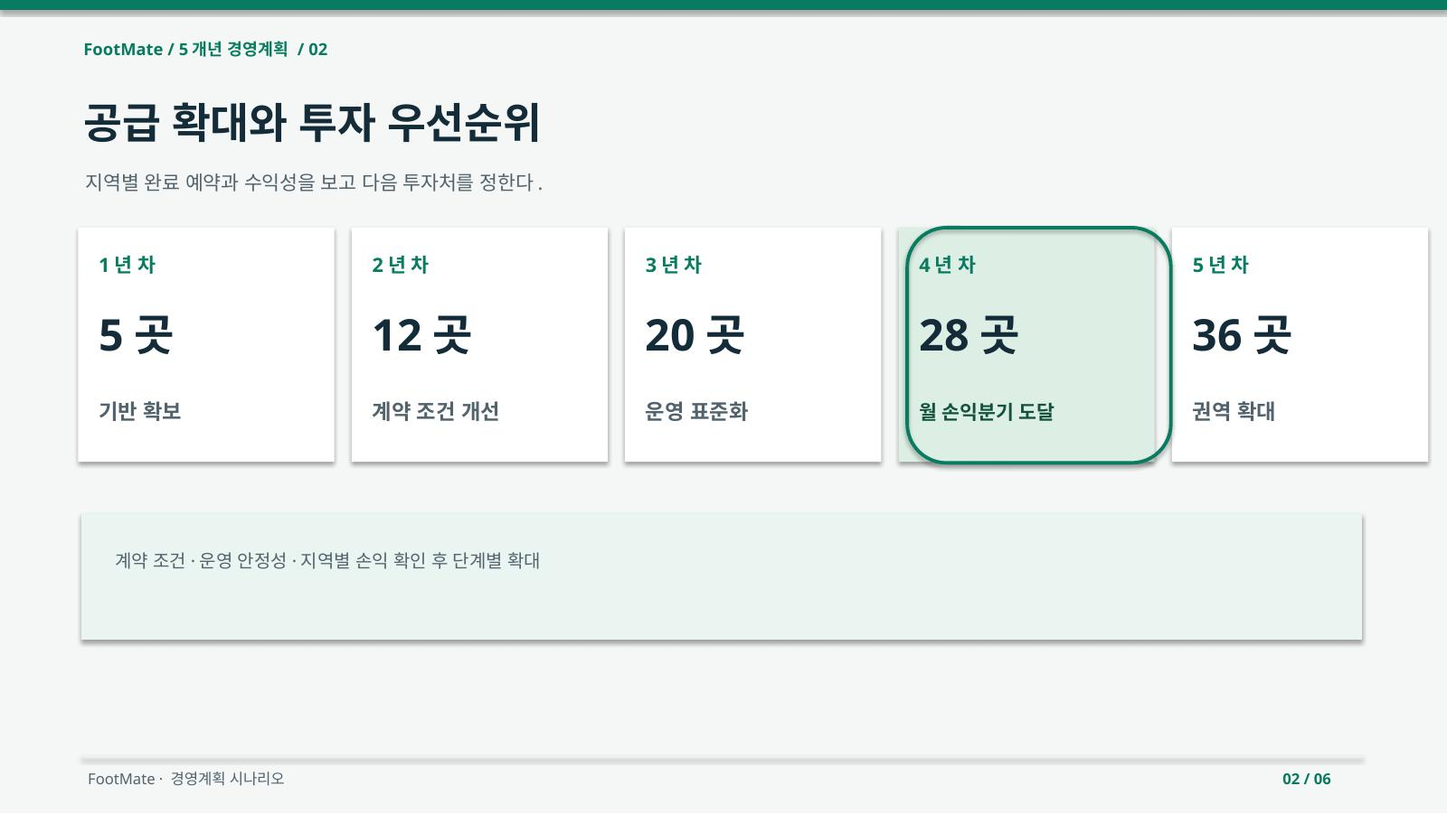
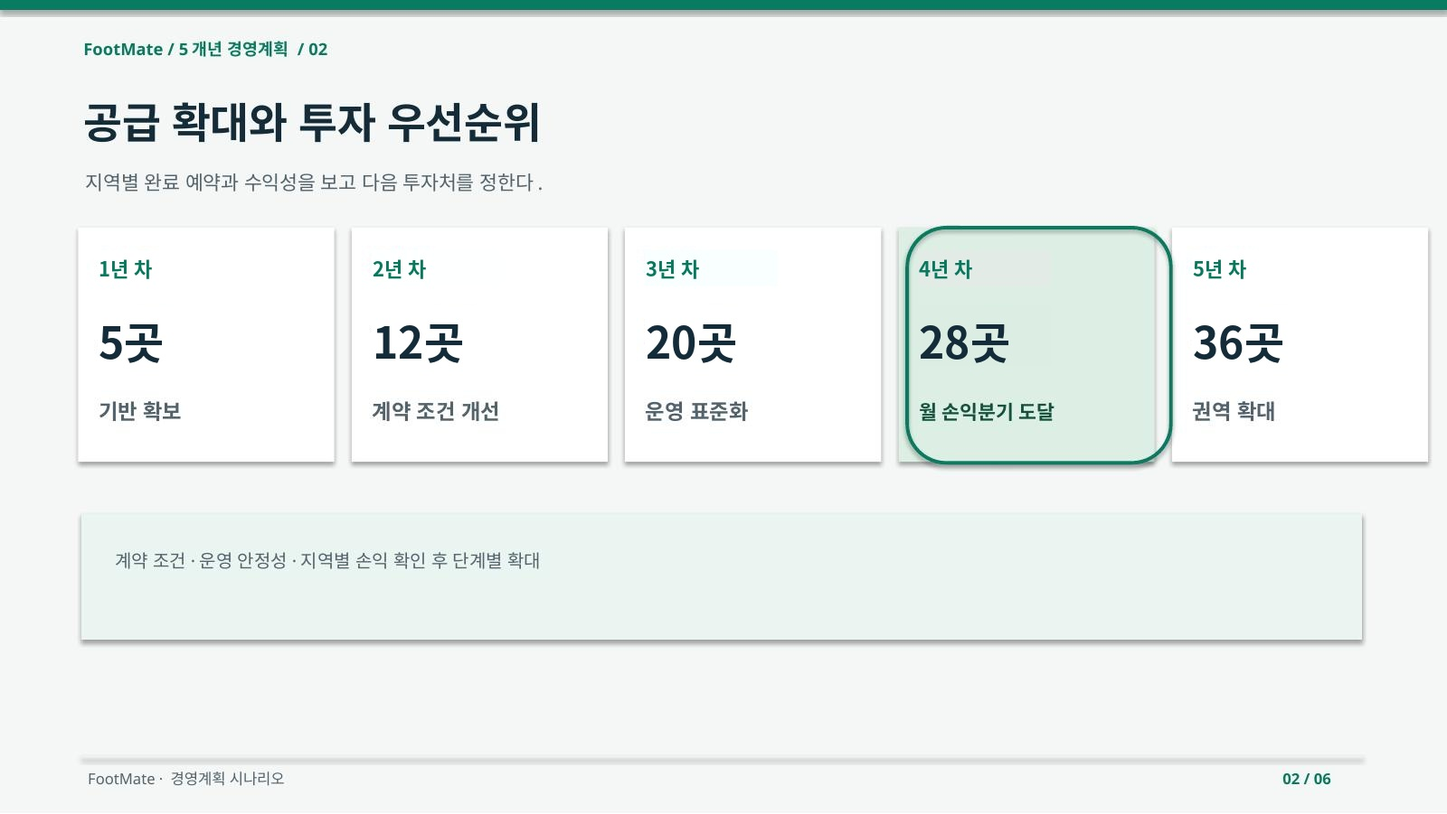
Tighten year and supplier units on the growth strategy slide

diff --git a/src/case-study/materials.html b/src/case-study/materials.html
@@ -263,7 +263,7 @@ html.standalone-slides .viewer:not(:fullscreen):not(.inline-zoom)>.toolbar,
 html.standalone-slides .viewer:not(:fullscreen):not(.inline-zoom)>.slide-tools,
 html
 html.standalone-slides .viewer:not(:fullscreen):not(.inline-zoom)>.slide-progress{flex:none}
-</style><style>.viewer .slide-keypoint{font-size:clamp(.82rem,1.3vw,.95rem);line-height:1.45;word-break:keep-all;overflow-wrap:anywhere}.viewer:fullscreen .slide-keypoint{flex:none}</style></head><body><main><a class="back" href="/" target="_top">본문으로</a><h1>FootMate 사업성 검토</h1><h2>분석 보고서</h2><p class="caption"><a href="/src/case-study/downloads/footmate_5year_strategy.pptx?v=20261113-polish" download="footmate_5year_strategy.pptx">5개년 성장 전략 PPTX 다운로드</a></p><div class="viewer"><div class="toolbar" role="group" aria-label="슬라이드 조작"><div class="slide-nav-controls"><button id="prev" type="button" aria-label="이전 슬라이드"><span class="fm-icon" aria-hidden="true">⬅</span><span>이전</span></button><span id="page" aria-live="polite" aria-atomic="true">01 / 09</span><button id="next" type="button" aria-label="다음 슬라이드"><span>다음</span><span class="fm-icon" aria-hidden="true">➡</span></button></div><div class="slide-current-info"><strong id="slideTitle">FootMate 사업성 검토</strong></div><div class="slide-tools"><button id="expand" type="button" aria-label="슬라이드 크게 보기"><span id="expandIcon" class="fm-icon" aria-hidden="true">🖥</span><span id="expandLabel">전체 화면</span></button></div></div><div class="slide-progress" id="slideProgressTrack" role="progressbar" aria-label="슬라이드 진행" aria-valuemin="1" aria-valuemax="10" aria-valuenow="1"><span id="slideProgress"></span></div><div class="slide-tools"><label for="slide-picker">슬라이드 목록 <select id="slide-picker"></select></label></div><div class="viewer-stage"><button type="button" id="slide-enlarge" aria-label="슬라이드 이미지 확대"><img id="slide" alt="" aria-describedby="slide-keypoint"></button></div><div class="slide-gallery" id="slideGallery" aria-label="발표자료 슬라이드 썸네일 미리보기"></div></div><h2>손익·사업성 분석</h2><section class="analysis" aria-label="손익과 사업성 분석"><h3>운영 손익과 성과관리</h3><p class="caption">2027년 손익 시나리오(산정 기준)</p><div class="controls"><label>수수료율 %<input id="rate" type="number" min="0" max="100" step="1"></label><label>플랫폼 예약 비중 %<input id="share" type="number" min="0" max="100"></label><label>취소율 %<input id="cancel" type="number" min="0" max="100"></label><label>신규 고객 1인당 확보비(CAC) 원<input id="cac" type="number" min="0" step="100"></label><label>플랫폼 결제비 %<input id="pg" type="number" min="0" max="100"></label><button id="reset">기준 시나리오 복원</button></div><div id="kpis" class="kpis" aria-live="polite"></div><p id="formula"></p><h2>월별 계획과 가상 실적 · 예약 증가 시나리오</h2><p class="muted">월별 표는 고정 계획과 가상 거래를 비교합니다. 계산기 입력값과는 연동되지 않습니다.</p><svg id="chart" viewBox="0 0 1000 220" role="img" aria-label="월별 수수료 매출, 계획과 가상 실적 비교"></svg><div id="monthly"></div><h2>차이 원인과 대응</h2><div id="variance"></div><h2>데이터·계산 검증</h2><p>2027년 가상 예약의 월별 집계다. 환불을 반영해 수수료 매출을 산정하고, 취소·노쇼의 지원·확보·IT 비용을 고려합니다. 거래 원장은 실제 자료 확보 후 대조합니다.</p><h3>스트레스 시나리오 계산 결과</h3><p>완료 예약 기준 손익입니다. 취소·노쇼의 추가 비용은 월별 원장 대조로 확인합니다.</p><div class="table-wrap" tabindex="0" role="region" aria-label="분석 표 가로 스크롤"><table><thead><tr><th>사례</th><th>조건</th><th>완료/월</th><th>공헌이익/건</th><th>기회비용 포함 손익/월</th><th>손익분기 건수</th></tr></thead><tbody><tr><td>FootMate</td><td>기준</td><td>626</td><td>340</td><td>-2,387,160</td><td>7,648</td></tr><tr><td>FootMate</td><td>플랫폼 예약 비중 20% 감소</td><td>501</td><td>340</td><td>-2,429,660</td><td>7,648</td></tr><tr><td>FootMate</td><td>고객 확보비 2배</td><td>626</td><td>40</td><td>-2,574,960</td><td>65,000</td></tr><tr><td>FootMate</td><td>취소율 20%</td><td>544</td><td>340</td><td>-2,415,040</td><td>7,648</td></tr><tr><td>FootMate</td><td>수수료 0%</td><td>626</td><td>-860</td><td>-3,138,360</td><td>손익분기 미성립</td></tr></tbody></table></div><p>수수료 0%는 건당 공헌이익이 음수로 손익분기에 도달하지 않습니다. 수요 수치는 검증용 가상 데이터입니다.</p><h2>전략과제·3개년 자원 배분</h2><div class="table-wrap" tabindex="0" role="region" aria-label="분석 표 가로 스크롤"><table><thead><tr><th>시기</th><th>우선 과제</th><th>자원 배분·예산</th><th>진입·중단 기준</th></tr></thead><tbody><tr><td>1년 차</td><td>권한·정원·거래·대조 통제</td><td>초기 투자 300만원. 월 고정비·기회비용 별도</td><td>건당 공헌이익이 양수일 때 고객 유입비 확대 검토</td></tr><tr><td>2년 차</td><td>지역·공급 확대 및 비용 개선</td><td>반복 사용량과 계약 단가로 예산 재산정</td><td>양의 공헌이익·현금 여력·서비스 품질 확인 후 확대</td></tr><tr><td>3년 차</td><td>결제 자동화·제휴 확장</td><td>증분 편익과 36개월 고정자원비를 심사</td><td>부가 기능은 기존 과업 대비 비용·효과 확인</td></tr></tbody></table></div><p>초기 구축비와 36개월 고정 운영비는 현금 2,460만원, 기회비용 포함 9,660만원입니다. 거래 변동비·추가 투자·세금·물가·할인율은 별도입니다.</p></section><h2>핵심 지표 요약</h2><div class="scroll"><table><thead><tr><th scope="col">관리 항목</th><th scope="col">산정 기준·결과</th></tr></thead><tbody><tr><th scope="row">월 공급 정원</th><td>1,558.8석</td></tr><tr><th scope="row">플랫폼 경유 완료 예약</th><td>626건</td></tr><tr><th scope="row">건당 공헌이익</th><td>340원</td></tr><tr><th scope="row">기회비용 포함 월 손익</th><td>−2,387,160원</td></tr><tr><th scope="row">복합 협상안 공헌이익</th><td>940원/건</td></tr><tr><th scope="row">관리 체계</th><td>월간 계획·가상 실적·차이 분석</td></tr></tbody></table></div><h2>의사결정 메모</h2><div class="memo"><h3>수수료·결제비 협상 후 공급 확대 검토</h3><p>2027년 손익 계산 모델(산정 기준) · 2026-10-30</p><h2>결정할 사항</h2><p>초기 운영은 운영자 제휴형으로 추진합니다. 수수료 12%·결제비 운영자 부담을 함께 협상합니다.</p><h2>근거</h2><p>기준: 월 626건·건당 340원·월 손익 −2,387,160원(기회비용 포함). 복합안: 건당 940원·손익분기 2,766건. 공급처는 관리비 제외 약 23곳, 초과분에 곳당 월 3만원 반영 시 약 28곳.</p><h2>대안과 선택 이유</h2><p>수수료 인상은 공급 이탈, 결제비 이전은 운영자 수용성이 변수입니다. 복합안은 공급 유지 확인 후 확정합니다.</p><h2>자원 배분과 중단 기준</h2><p>초기 투자 300만원·월 고정비 60만원. 기회비용 월 200만원(현금 지출 제외). 건당 공헌이익 0 이하이면 광고 보류. 확대 전 취소·지원비 포함 손익 재심사.</p><h2>담당 역할·완료 기준</h2><p>사업개발: 계약·결제비 / 운영: 일정·정원·취소 / 경영기획: 물량·단가·비용 / IT: 권한·정원·거래 검수. 확대 전 계약·손익·통제 확인.</p></div></main><script>const DATA={"notice": "2027년 손익 계산 모델(산정 기준)", "configs": {"FootMate": {"price": 12000, "rate": 0.1, "pg": 0.03, "cs": 150, "it": 50, "newshare": 0.5, "cac": 600, "fixed": 600000, "labor": 2000000, "partners": 5, "slots": 4, "capacity": 18, "fill": 0.75, "share": 0.6, "cancel": 0.08, "complete": 0.97, "initial": 3000000}}, "results": {"FootMate": {"seats": 1558.8, "orders": 626, "gmv": 7512000, "revenue": 751200, "unit": 340, "profit": -387160, "economic": -2387160, "bep": 7648}}, "monthly": [{"project": "FootMate", "month": "2027-01", "plan_orders": 626, "sim_orders": 537, "plan_revenue": 751200, "sim_revenue": 644300, "plan_profit": -387160, "sim_profit": -510490, "partners": 5, "fill": 0.75, "share": 0.6, "forecast_orders": 537, "source": "synthetic"}, {"project": "FootMate", "month": "2027-02", "plan_orders": 650, "sim_orders": 573, "plan_revenue": 780000, "sim_revenue": 685800, "plan_profit": -379000, "sim_profit": -505240, "partners": 5, "fill": 0.76, "share": 0.615, "forecast_orders": 573, "source": "synthetic"}, {"project": "FootMate", "month": "2027-03", "plan_orders": 675, "sim_orders": 611, "plan_revenue": 810000, "sim_revenue": 731300, "plan_profit": -370500, "sim_profit": -503390, "partners": 5, "fill": 0.77, "share": 0.63, "forecast_orders": 611, "source": "synthetic"}, {"project": "FootMate", "month": "2027-04", "plan_orders": 980, "sim_orders": 904, "plan_revenue": 1176000, "sim_revenue": 1088800, "plan_profit": -266800, "sim_profit": -459140, "partners": 7, "fill": 0.78, "share": 0.645, "forecast_orders": 904, "source": "synthetic"}, {"project": "FootMate", "month": "2027-05", "plan_orders": 1015, "sim_orders": 976, "plan_revenue": 1218000, "sim_revenue": 1172000, "plan_profit": -254900, "sim_profit": -461600, "partners": 7, "fill": 0.79, "share": 0.6599999999999999, "forecast_orders": 976, "source": "synthetic"}, {"project": "FootMate", "month": "2027-06", "plan_orders": 1052, "sim_orders": 1019, "plan_revenue": 1262400, "sim_revenue": 1223200, "plan_profit": -242320, "sim_profit": -459360, "partners": 7, "fill": 0.8, "share": 0.6749999999999999, "forecast_orders": 1019, "source": "synthetic"}, {"project": "FootMate", "month": "2027-07", "plan_orders": 1399, "sim_orders": 1424, "plan_revenue": 1678800, "sim_revenue": 1712100, "plan_profit": -124340, "sim_profit": -355330, "partners": 9, "fill": 0.81, "share": 0.69, "forecast_orders": 1399, "source": "synthetic"}, {"project": "FootMate", "month": "2027-08", "plan_orders": 1448, "sim_orders": 1498, "plan_revenue": 1737600, "sim_revenue": 1797700, "plan_profit": -107680, "sim_profit": -359110, "partners": 9, "fill": 0.8200000000000001, "share": 0.705, "forecast_orders": 1448, "source": "synthetic"}, {"project": "FootMate", "month": "2027-09", "plan_orders": 1496, "sim_orders": 1564, "plan_revenue": 1795200, "sim_revenue": 1877900, "plan_profit": -91360, "sim_profit": -367870, "partners": 9, "fill": 0.83, "share": 0.72, "forecast_orders": 1496, "source": "synthetic"}, {"project": "FootMate", "month": "2027-10", "plan_orders": 1889, "sim_orders": 2056, "plan_revenue": 2266800, "sim_revenue": 2466000, "plan_profit": 42260, "sim_profit": -274700, "partners": 11, "fill": 0.84, "share": 0.735, "forecast_orders": 1889, "source": "synthetic"}, {"project": "FootMate", "month": "2027-11", "plan_orders": 1951, "sim_orders": 2143, "plan_revenue": 2341200, "sim_revenue": 2568200, "plan_profit": 63340, "sim_profit": -306460, "partners": 11, "fill": 0.85, "share": 0.75, "forecast_orders": 1951, "source": "synthetic"}, {"project": "FootMate", "month": "2027-12", "plan_orders": 2013, "sim_orders": 2261, "plan_revenue": 2415600, "sim_revenue": 2713800, "plan_profit": 84420, "sim_profit": -278040, "partners": 11, "fill": 0.86, "share": 0.7649999999999999, "forecast_orders": 2013, "source": "synthetic"}]};
+</style><style>.viewer .slide-keypoint{font-size:clamp(.82rem,1.3vw,.95rem);line-height:1.45;word-break:keep-all;overflow-wrap:anywhere}.viewer:fullscreen .slide-keypoint{flex:none}</style></head><body><main><a class="back" href="/" target="_top">본문으로</a><h1>FootMate 사업성 검토</h1><h2>분석 보고서</h2><p class="caption"><a href="/src/case-study/downloads/footmate_5year_strategy.pptx?v=20261118-units" download="footmate_5year_strategy.pptx">5개년 성장 전략 PPTX 다운로드</a></p><div class="viewer"><div class="toolbar" role="group" aria-label="슬라이드 조작"><div class="slide-nav-controls"><button id="prev" type="button" aria-label="이전 슬라이드"><span class="fm-icon" aria-hidden="true">⬅</span><span>이전</span></button><span id="page" aria-live="polite" aria-atomic="true">01 / 09</span><button id="next" type="button" aria-label="다음 슬라이드"><span>다음</span><span class="fm-icon" aria-hidden="true">➡</span></button></div><div class="slide-current-info"><strong id="slideTitle">FootMate 사업성 검토</strong></div><div class="slide-tools"><button id="expand" type="button" aria-label="슬라이드 크게 보기"><span id="expandIcon" class="fm-icon" aria-hidden="true">🖥</span><span id="expandLabel">전체 화면</span></button></div></div><div class="slide-progress" id="slideProgressTrack" role="progressbar" aria-label="슬라이드 진행" aria-valuemin="1" aria-valuemax="10" aria-valuenow="1"><span id="slideProgress"></span></div><div class="slide-tools"><label for="slide-picker">슬라이드 목록 <select id="slide-picker"></select></label></div><div class="viewer-stage"><button type="button" id="slide-enlarge" aria-label="슬라이드 이미지 확대"><img id="slide" alt="" aria-describedby="slide-keypoint"></button></div><div class="slide-gallery" id="slideGallery" aria-label="발표자료 슬라이드 썸네일 미리보기"></div></div><h2>손익·사업성 분석</h2><section class="analysis" aria-label="손익과 사업성 분석"><h3>운영 손익과 성과관리</h3><p class="caption">2027년 손익 시나리오(산정 기준)</p><div class="controls"><label>수수료율 %<input id="rate" type="number" min="0" max="100" step="1"></label><label>플랫폼 예약 비중 %<input id="share" type="number" min="0" max="100"></label><label>취소율 %<input id="cancel" type="number" min="0" max="100"></label><label>신규 고객 1인당 확보비(CAC) 원<input id="cac" type="number" min="0" step="100"></label><label>플랫폼 결제비 %<input id="pg" type="number" min="0" max="100"></label><button id="reset">기준 시나리오 복원</button></div><div id="kpis" class="kpis" aria-live="polite"></div><p id="formula"></p><h2>월별 계획과 가상 실적 · 예약 증가 시나리오</h2><p class="muted">월별 표는 고정 계획과 가상 거래를 비교합니다. 계산기 입력값과는 연동되지 않습니다.</p><svg id="chart" viewBox="0 0 1000 220" role="img" aria-label="월별 수수료 매출, 계획과 가상 실적 비교"></svg><div id="monthly"></div><h2>차이 원인과 대응</h2><div id="variance"></div><h2>데이터·계산 검증</h2><p>2027년 가상 예약의 월별 집계다. 환불을 반영해 수수료 매출을 산정하고, 취소·노쇼의 지원·확보·IT 비용을 고려합니다. 거래 원장은 실제 자료 확보 후 대조합니다.</p><h3>스트레스 시나리오 계산 결과</h3><p>완료 예약 기준 손익입니다. 취소·노쇼의 추가 비용은 월별 원장 대조로 확인합니다.</p><div class="table-wrap" tabindex="0" role="region" aria-label="분석 표 가로 스크롤"><table><thead><tr><th>사례</th><th>조건</th><th>완료/월</th><th>공헌이익/건</th><th>기회비용 포함 손익/월</th><th>손익분기 건수</th></tr></thead><tbody><tr><td>FootMate</td><td>기준</td><td>626</td><td>340</td><td>-2,387,160</td><td>7,648</td></tr><tr><td>FootMate</td><td>플랫폼 예약 비중 20% 감소</td><td>501</td><td>340</td><td>-2,429,660</td><td>7,648</td></tr><tr><td>FootMate</td><td>고객 확보비 2배</td><td>626</td><td>40</td><td>-2,574,960</td><td>65,000</td></tr><tr><td>FootMate</td><td>취소율 20%</td><td>544</td><td>340</td><td>-2,415,040</td><td>7,648</td></tr><tr><td>FootMate</td><td>수수료 0%</td><td>626</td><td>-860</td><td>-3,138,360</td><td>손익분기 미성립</td></tr></tbody></table></div><p>수수료 0%는 건당 공헌이익이 음수로 손익분기에 도달하지 않습니다. 수요 수치는 검증용 가상 데이터입니다.</p><h2>전략과제·3개년 자원 배분</h2><div class="table-wrap" tabindex="0" role="region" aria-label="분석 표 가로 스크롤"><table><thead><tr><th>시기</th><th>우선 과제</th><th>자원 배분·예산</th><th>진입·중단 기준</th></tr></thead><tbody><tr><td>1년 차</td><td>권한·정원·거래·대조 통제</td><td>초기 투자 300만원. 월 고정비·기회비용 별도</td><td>건당 공헌이익이 양수일 때 고객 유입비 확대 검토</td></tr><tr><td>2년 차</td><td>지역·공급 확대 및 비용 개선</td><td>반복 사용량과 계약 단가로 예산 재산정</td><td>양의 공헌이익·현금 여력·서비스 품질 확인 후 확대</td></tr><tr><td>3년 차</td><td>결제 자동화·제휴 확장</td><td>증분 편익과 36개월 고정자원비를 심사</td><td>부가 기능은 기존 과업 대비 비용·효과 확인</td></tr></tbody></table></div><p>초기 구축비와 36개월 고정 운영비는 현금 2,460만원, 기회비용 포함 9,660만원입니다. 거래 변동비·추가 투자·세금·물가·할인율은 별도입니다.</p></section><h2>핵심 지표 요약</h2><div class="scroll"><table><thead><tr><th scope="col">관리 항목</th><th scope="col">산정 기준·결과</th></tr></thead><tbody><tr><th scope="row">월 공급 정원</th><td>1,558.8석</td></tr><tr><th scope="row">플랫폼 경유 완료 예약</th><td>626건</td></tr><tr><th scope="row">건당 공헌이익</th><td>340원</td></tr><tr><th scope="row">기회비용 포함 월 손익</th><td>−2,387,160원</td></tr><tr><th scope="row">복합 협상안 공헌이익</th><td>940원/건</td></tr><tr><th scope="row">관리 체계</th><td>월간 계획·가상 실적·차이 분석</td></tr></tbody></table></div><h2>의사결정 메모</h2><div class="memo"><h3>수수료·결제비 협상 후 공급 확대 검토</h3><p>2027년 손익 계산 모델(산정 기준) · 2026-10-30</p><h2>결정할 사항</h2><p>초기 운영은 운영자 제휴형으로 추진합니다. 수수료 12%·결제비 운영자 부담을 함께 협상합니다.</p><h2>근거</h2><p>기준: 월 626건·건당 340원·월 손익 −2,387,160원(기회비용 포함). 복합안: 건당 940원·손익분기 2,766건. 공급처는 관리비 제외 약 23곳, 초과분에 곳당 월 3만원 반영 시 약 28곳.</p><h2>대안과 선택 이유</h2><p>수수료 인상은 공급 이탈, 결제비 이전은 운영자 수용성이 변수입니다. 복합안은 공급 유지 확인 후 확정합니다.</p><h2>자원 배분과 중단 기준</h2><p>초기 투자 300만원·월 고정비 60만원. 기회비용 월 200만원(현금 지출 제외). 건당 공헌이익 0 이하이면 광고 보류. 확대 전 취소·지원비 포함 손익 재심사.</p><h2>담당 역할·완료 기준</h2><p>사업개발: 계약·결제비 / 운영: 일정·정원·취소 / 경영기획: 물량·단가·비용 / IT: 권한·정원·거래 검수. 확대 전 계약·손익·통제 확인.</p></div></main><script>const DATA={"notice": "2027년 손익 계산 모델(산정 기준)", "configs": {"FootMate": {"price": 12000, "rate": 0.1, "pg": 0.03, "cs": 150, "it": 50, "newshare": 0.5, "cac": 600, "fixed": 600000, "labor": 2000000, "partners": 5, "slots": 4, "capacity": 18, "fill": 0.75, "share": 0.6, "cancel": 0.08, "complete": 0.97, "initial": 3000000}}, "results": {"FootMate": {"seats": 1558.8, "orders": 626, "gmv": 7512000, "revenue": 751200, "unit": 340, "profit": -387160, "economic": -2387160, "bep": 7648}}, "monthly": [{"project": "FootMate", "month": "2027-01", "plan_orders": 626, "sim_orders": 537, "plan_revenue": 751200, "sim_revenue": 644300, "plan_profit": -387160, "sim_profit": -510490, "partners": 5, "fill": 0.75, "share": 0.6, "forecast_orders": 537, "source": "synthetic"}, {"project": "FootMate", "month": "2027-02", "plan_orders": 650, "sim_orders": 573, "plan_revenue": 780000, "sim_revenue": 685800, "plan_profit": -379000, "sim_profit": -505240, "partners": 5, "fill": 0.76, "share": 0.615, "forecast_orders": 573, "source": "synthetic"}, {"project": "FootMate", "month": "2027-03", "plan_orders": 675, "sim_orders": 611, "plan_revenue": 810000, "sim_revenue": 731300, "plan_profit": -370500, "sim_profit": -503390, "partners": 5, "fill": 0.77, "share": 0.63, "forecast_orders": 611, "source": "synthetic"}, {"project": "FootMate", "month": "2027-04", "plan_orders": 980, "sim_orders": 904, "plan_revenue": 1176000, "sim_revenue": 1088800, "plan_profit": -266800, "sim_profit": -459140, "partners": 7, "fill": 0.78, "share": 0.645, "forecast_orders": 904, "source": "synthetic"}, {"project": "FootMate", "month": "2027-05", "plan_orders": 1015, "sim_orders": 976, "plan_revenue": 1218000, "sim_revenue": 1172000, "plan_profit": -254900, "sim_profit": -461600, "partners": 7, "fill": 0.79, "share": 0.6599999999999999, "forecast_orders": 976, "source": "synthetic"}, {"project": "FootMate", "month": "2027-06", "plan_orders": 1052, "sim_orders": 1019, "plan_revenue": 1262400, "sim_revenue": 1223200, "plan_profit": -242320, "sim_profit": -459360, "partners": 7, "fill": 0.8, "share": 0.6749999999999999, "forecast_orders": 1019, "source": "synthetic"}, {"project": "FootMate", "month": "2027-07", "plan_orders": 1399, "sim_orders": 1424, "plan_revenue": 1678800, "sim_revenue": 1712100, "plan_profit": -124340, "sim_profit": -355330, "partners": 9, "fill": 0.81, "share": 0.69, "forecast_orders": 1399, "source": "synthetic"}, {"project": "FootMate", "month": "2027-08", "plan_orders": 1448, "sim_orders": 1498, "plan_revenue": 1737600, "sim_revenue": 1797700, "plan_profit": -107680, "sim_profit": -359110, "partners": 9, "fill": 0.8200000000000001, "share": 0.705, "forecast_orders": 1448, "source": "synthetic"}, {"project": "FootMate", "month": "2027-09", "plan_orders": 1496, "sim_orders": 1564, "plan_revenue": 1795200, "sim_revenue": 1877900, "plan_profit": -91360, "sim_profit": -367870, "partners": 9, "fill": 0.83, "share": 0.72, "forecast_orders": 1496, "source": "synthetic"}, {"project": "FootMate", "month": "2027-10", "plan_orders": 1889, "sim_orders": 2056, "plan_revenue": 2266800, "sim_revenue": 2466000, "plan_profit": 42260, "sim_profit": -274700, "partners": 11, "fill": 0.84, "share": 0.735, "forecast_orders": 1889, "source": "synthetic"}, {"project": "FootMate", "month": "2027-11", "plan_orders": 1951, "sim_orders": 2143, "plan_revenue": 2341200, "sim_revenue": 2568200, "plan_profit": 63340, "sim_profit": -306460, "partners": 11, "fill": 0.85, "share": 0.75, "forecast_orders": 1951, "source": "synthetic"}, {"project": "FootMate", "month": "2027-12", "plan_orders": 2013, "sim_orders": 2261, "plan_revenue": 2415600, "sim_revenue": 2713800, "plan_profit": 84420, "sim_profit": -278040, "partners": 11, "fill": 0.86, "share": 0.7649999999999999, "forecast_orders": 2013, "source": "synthetic"}]};
 const $=id=>document.getElementById(id),num=n=>Math.round(n).toLocaleString('ko-KR'),money=n=>num(n)+'원';
 function tab(h,rs){return '<div class="table-wrap" tabindex="0" role="region" aria-label="분석 표 가로 스크롤"><table><thead><tr>'+h.map(x=>'<th>'+x+'</th>').join('')+'</tr></thead><tbody>'+rs.map(r=>'<tr>'+r.map(x=>'<td>'+x+'</td>').join('')+'</tr>').join('')+'</tbody></table></div>'}
 function update(){let p='FootMate',c={...DATA.configs[p]};for(let id of ['rate','share','cancel','cac','pg'])c[id]=Number($(id).value)/(id==='cac'?1:100);if(Object.values(c).some(x=>!Number.isFinite(x))||['rate','share','cancel','pg'].some(x=>c[x]<0||c[x]>1)||c.cac<0){$('kpis').textContent='입력 범위를 확인하세요.';return}let seats=c.partners*c.slots*4.33*c.capacity,q=Math.round(seats*c.fill*c.share*(1-c.cancel)*c.complete),u=c.price*c.rate-c.price*c.pg-c.cs-c.it-c.newshare*c.cac,e=q*u-c.fixed-c.labor;let bep=u>0?Math.ceil((c.fixed+c.labor)/u):null;$('kpis').innerHTML=[['완료 예약 / 월',num(q)+'건'],['수수료 매출',money(q*c.price*c.rate)],['공헌이익 / 건',money(u)],['기회비용 포함 월 손익',money(e)],['손익분기 예약',bep?num(bep)+'건':'손익분기 미성립']].map(x=>'<div>'+x[0]+'<strong>'+x[1]+'</strong></div>').join('');$('formula').textContent='공급: 5곳 × 주4회 × 18명 × 4.33주. 충원율·플랫폼 예약 비중·취소·완료율 적용.';
@@ -273,6 +273,7 @@ let max=Math.max(...ms.flatMap(x=>[x.plan_revenue,x.sim_revenue]),1),bars=ms.map
 function reset(){let c=DATA.configs['FootMate'];for(let id of ['rate','share','cancel','cac','pg'])$(id).value=c[id]*(id==='cac'?1:100);update()}for(let id of ['rate','share','cancel','cac','pg'])$(id).addEventListener('input',update);$('reset').addEventListener('click',reset);reset();</script><script src="report-previews.js?v=20261117-language"></script><script>const strategyDeck=new URLSearchParams(location.search).get('deck')==='strategy';if(strategyDeck){document.title='FootMate | 5개년 성장 전략';document.querySelector('main h1').textContent='FootMate 5개년 성장 전략';}const slides=strategyDeck?[{"title":"5개년 성장 전략","src":"/src/case-study/previews/strategy/slide-1.jpg"},{"title":"공급 확대와 투자 우선순위","src":"/src/case-study/previews/strategy/slide-2.jpg"},{"title":"수수료·결제 조건에 따른 공헌이익 개선","src":"/src/case-study/previews/strategy/slide-3.jpg"},{"title":"연차별 손익 전망","src":"/src/case-study/previews/strategy/slide-4.jpg?v=20261111-priority-slides"},{"title":"경영 성과 관리와 전략적 자원 배분","src":"/src/case-study/previews/strategy/slide-5.jpg"},{"title":"성장 규모보다 수익성 있는 확대를 우선","src":"/src/case-study/previews/strategy/slide-6.jpg"}]:window.REPORT_SLIDES;const revisedSlides=slides.map((_,index)=>index+1);
 revisedSlides.forEach(number=>{slides[number-1].src='/src/case-study/previews/'+(strategyDeck?'strategy':'report')+'/decision-'+number+'.jpg?v='+((strategyDeck?[2,4,5]:[2,4,8]).includes(number)?'20261113-polish':'20261113-clean');});
 for (const number of (strategyDeck ? [2, 4] : [9])) slides[number-1].src += '&copy=20261118-titles';
+if(strategyDeck)slides[1].src+='&units=2';
 if (!strategyDeck) slides[0].src = '/src/case-study/previews/report/decision-1.jpg?v=20261118-color';
 const keypoints=strategyDeck?[
  '제휴 공급처를 5곳에서 36곳으로 늘리는 계획.',
